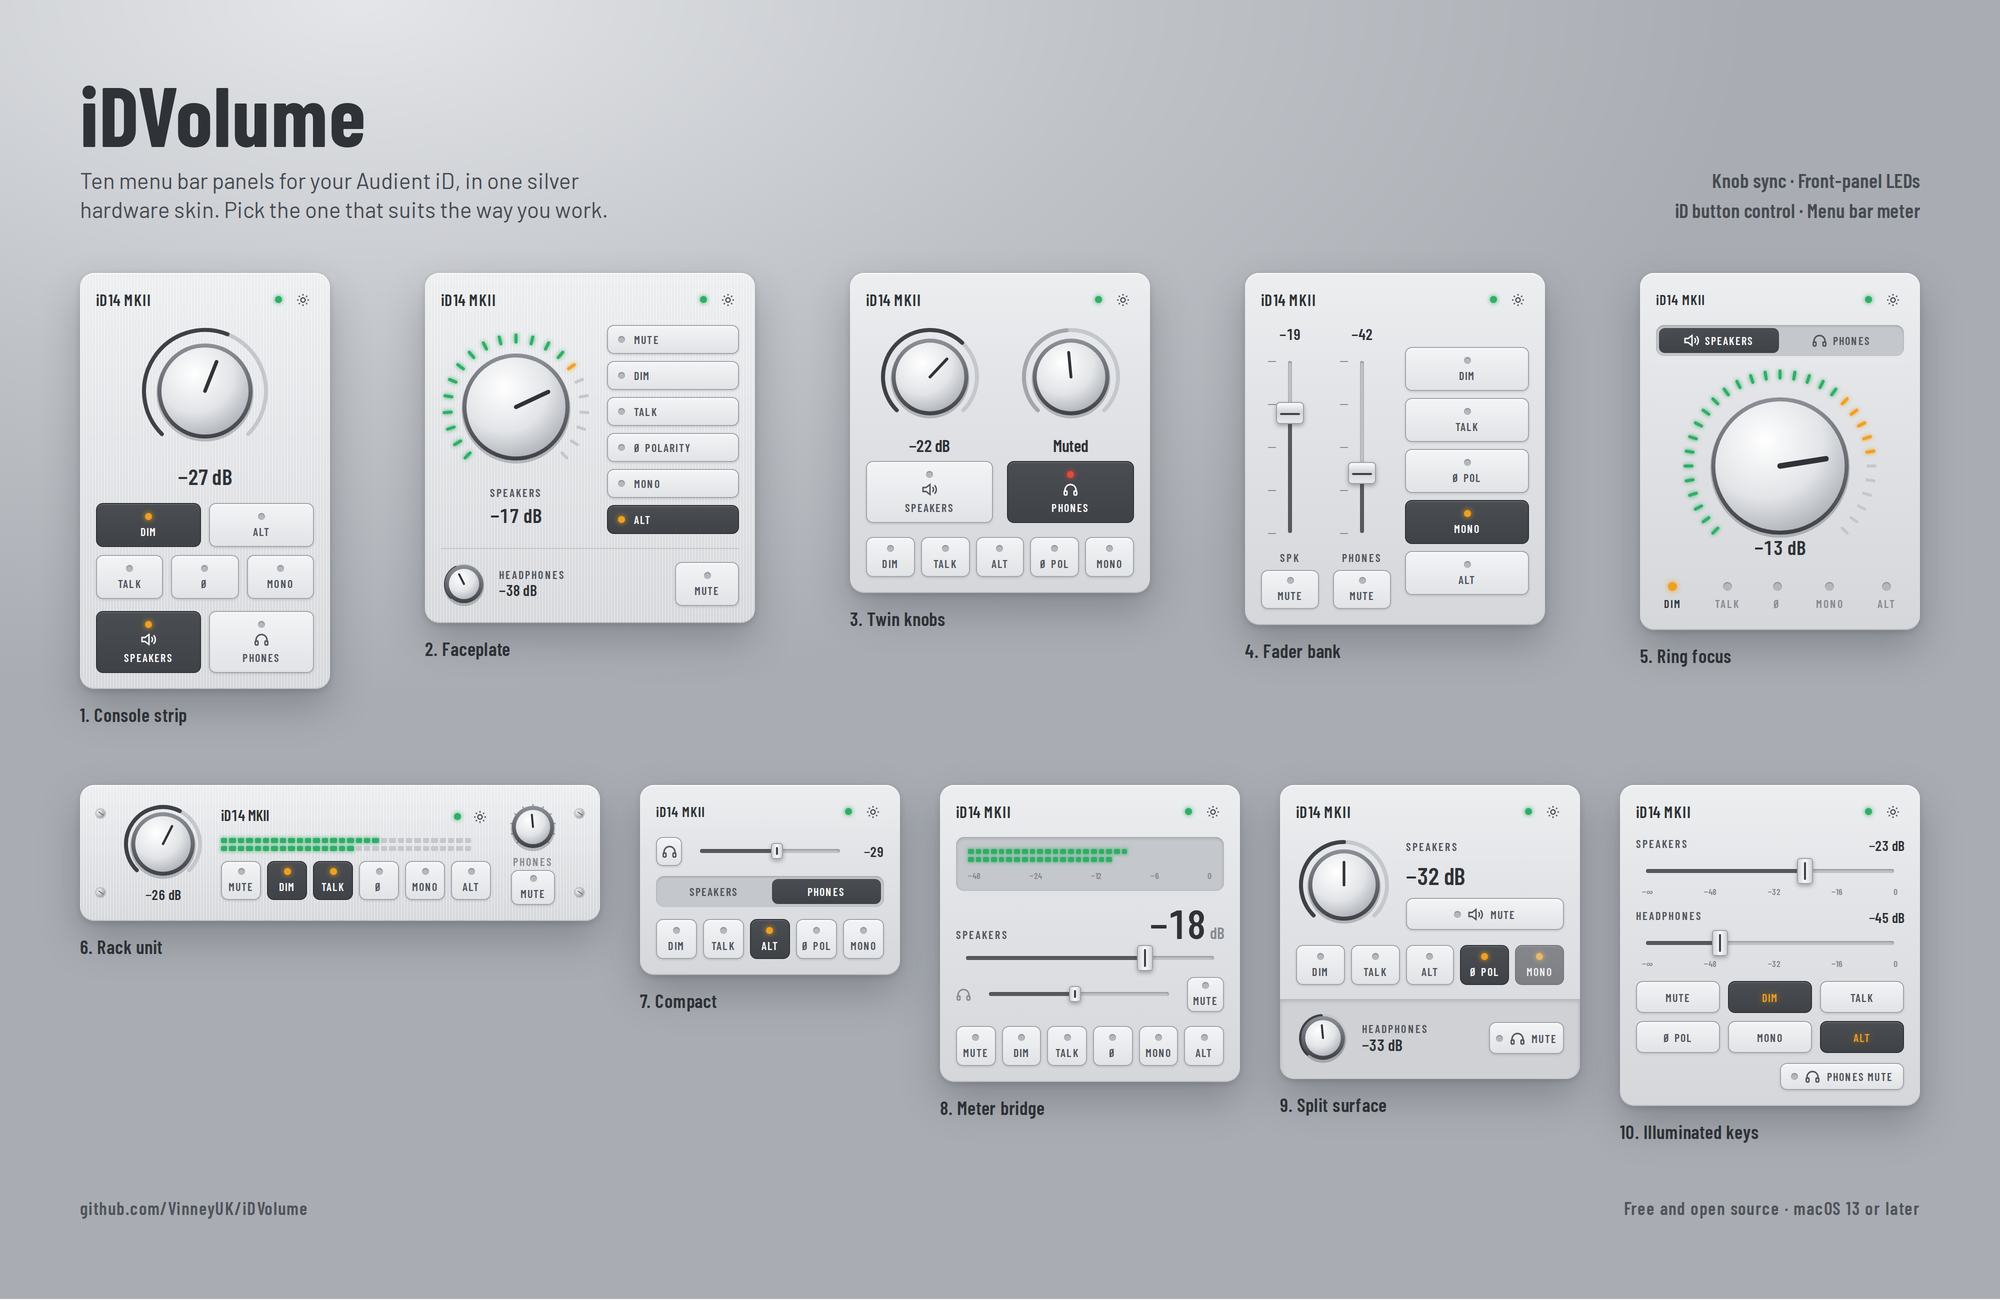
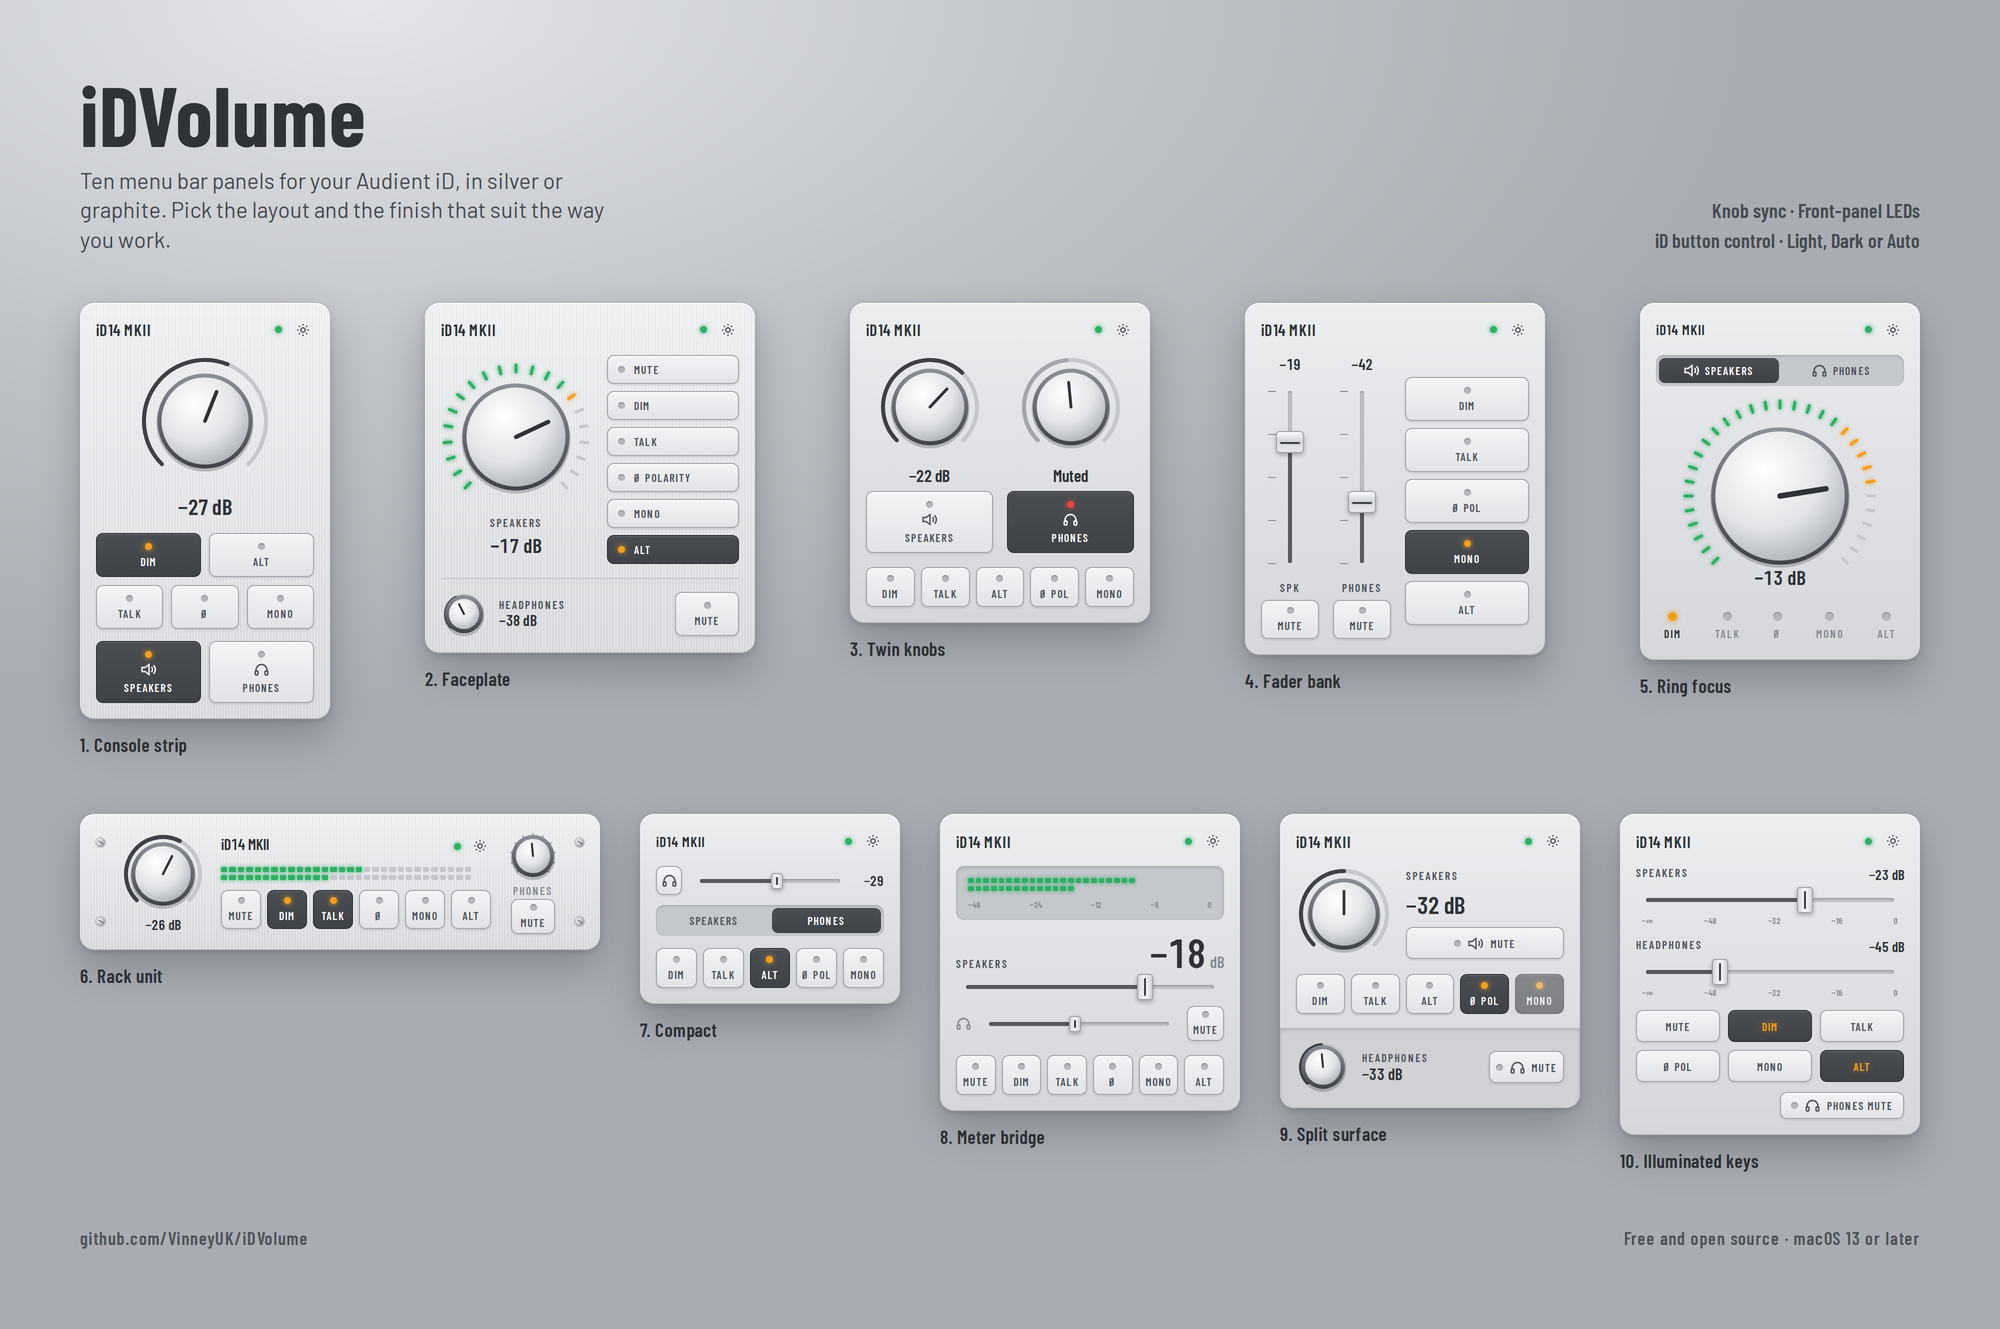
Ten panel layouts, Settings window, Light/Dark/Auto appearance

diff --git a/Sources/HardwareUI.swift b/Sources/HardwareUI.swift
@@ -1,3 +1,4 @@
+import AppKit
 import SwiftUI
 
 // MARK: - Skin (silver hardware)
@@ -8,29 +9,53 @@ extension Color {
     }
 }
 
+/// The hardware skin. Every colour is a light/dark pair; macOS picks one from the panel's
+/// appearance (Light, Dark, or Auto = follow the system — see Settings → Panel).
 enum Skin {
-    static let plateTop = Color(hex: 0xeceef0)
-    static let plate = Color(hex: 0xe3e4e7)
-    static let plateLo = Color(hex: 0xd5d7da)
-    static let groove = Color(hex: 0xc4c7cb)
-    static let well = Color(hex: 0xcfd1d5)
-    static let ink = Color(hex: 0x2f3236)
-    static let silk = Color(hex: 0x4f535a)
-    static let silkDim = Color(hex: 0x868a91)
-    static let edge = Color(hex: 0xa2a6ac)
-    static let keyDark = Color(hex: 0x3f4247)
+    /// A colour that resolves per appearance.
+    static func pair(_ light: UInt32, _ dark: UInt32, lightAlpha: CGFloat = 1, darkAlpha: CGFloat = 1) -> Color {
+        Color(nsColor: NSColor(name: nil) { appearance in
+            let isDark = appearance.bestMatch(from: [.darkAqua, .aqua]) == .darkAqua
+            return NSColor(hex: isDark ? dark : light, alpha: isDark ? darkAlpha : lightAlpha)
+        })
+    }
+
+    //                               light     dark (graphite)
+    static let plateTop  = pair(0xeceef0, 0x2e3237)
+    static let plate     = pair(0xe3e4e7, 0x24272b)
+    static let plateLo   = pair(0xd5d7da, 0x1f2225)
+    static let groove    = pair(0xc4c7cb, 0x121315)
+    static let well      = pair(0xcfd1d5, 0x1a1c1f)
+    static let sidebar   = pair(0xd9dbde, 0x1d1f22)
+    static let ink       = pair(0x2f3236, 0xe6e8eb)
+    static let silk      = pair(0x4f535a, 0xb9bec6)
+    static let silkDim   = pair(0x868a91, 0x6f757e)
+    static let edge      = pair(0xa2a6ac, 0x15171a)
+    static let edgeOn    = pair(0x2f3236, 0x6a6e75)
+    static let ledOff    = pair(0xb4b7bc, 0x3a3e44)
+    static let tick      = pair(0x9ea2a8, 0x6f757e)
+    static let charcoal  = pair(0x3d4045, 0xd8dbe0)     // lit arcs and fader fills
+    static let keyDark   = pair(0x3f4247, 0x5a5e65)     // selected / "on" fill
+    static let brushLine = pair(0xffffff, 0xffffff, lightAlpha: 0.28, darkAlpha: 0.022)
+
     static let amber = Color(hex: 0xf0a020)
     static let red = Color(hex: 0xe5483a)
     static let green = Color(hex: 0x2fae66)
-    static let charcoal = Color(hex: 0x3d4045)
 
     static func silkFont(_ size: CGFloat = 11) -> Font { .system(size: size, weight: .semibold).width(.condensed) }
     static func readoutFont(_ size: CGFloat) -> Font { .system(size: size, weight: .semibold).width(.condensed).monospacedDigit() }
 
     static let plateGradient = LinearGradient(colors: [plateTop, plate, plateLo], startPoint: .top, endPoint: .bottom)
-    static let keyLight = LinearGradient(colors: [Color(hex: 0xf3f4f6), Color(hex: 0xe1e3e6)], startPoint: .top, endPoint: .bottom)
-    static let keyOn = LinearGradient(colors: [Color(hex: 0x4a4d52), keyDark], startPoint: .top, endPoint: .bottom)
+    static let keyLight = LinearGradient(colors: [pair(0xf3f4f6, 0x363a40), pair(0xe1e3e6, 0x2a2d32)], startPoint: .top, endPoint: .bottom)
+    static let keyOn = LinearGradient(colors: [pair(0x4a4d52, 0x686c73), keyDark], startPoint: .top, endPoint: .bottom)
     static let keyMuted = LinearGradient(colors: [Color(hex: 0xb8392d), Color(hex: 0x9c2c22)], startPoint: .top, endPoint: .bottom)
+}
+
+extension NSColor {
+    convenience init(hex: UInt32, alpha: CGFloat = 1) {
+        self.init(srgbRed: CGFloat((hex >> 16) & 0xff) / 255, green: CGFloat((hex >> 8) & 0xff) / 255,
+                  blue: CGFloat(hex & 0xff) / 255, alpha: alpha)
+    }
 }
 
 /// Level (0…1) → dB text on the app's scale.
@@ -76,7 +101,7 @@ struct LEDView: View {
         TimelineView(.periodic(from: .now, by: 0.5)) { ctx in
             let blinkOff = flash && Int(ctx.date.timeIntervalSinceReferenceDate * 2) % 2 == 1
             Circle()
-                .fill(color.map { blinkOff ? Color(hex: 0xb4b7bc) : $0 } ?? Color(hex: 0xb4b7bc))
+                .fill(color.map { blinkOff ? Skin.ledOff : $0 } ?? Skin.ledOff)
                 .frame(width: size, height: size)
                 .shadow(color: (color != nil && !blinkOff) ? color!.opacity(0.8) : .clear, radius: 3)
         }
@@ -93,7 +118,7 @@ struct PlateBackground: View {
                 Canvas { ctx, size in
                     var x: CGFloat = 0
                     while x < size.width {
-                        ctx.fill(Path(CGRect(x: x, y: 0, width: 1, height: size.height)), with: .color(.white.opacity(0.28)))
+                        ctx.fill(Path(CGRect(x: x, y: 0, width: 1, height: size.height)), with: .color(Skin.brushLine))
                         x += 3
                     }
                 }
@@ -133,8 +158,8 @@ struct HWKey: View {
                 .foregroundStyle(foreground)
                 .background(RoundedRectangle(cornerRadius: 7, style: .continuous).fill(fill))
                 .overlay(RoundedRectangle(cornerRadius: 7, style: .continuous)
-                    .strokeBorder(isOn ? Color(hex: 0x2f3236) : Skin.edge, lineWidth: 1))
-                .shadow(color: .black.opacity(isOn ? 0 : 0.14), radius: 1, y: 1)
+                    .strokeBorder(isOn ? Skin.edgeOn : Skin.edge, lineWidth: 1))
+                .shadow(color: .black.opacity(isOn ? 0 : 0.18), radius: 1, y: 1)
                 .contentShape(Rectangle())
         }
         .buttonStyle(PressStyle())
@@ -285,7 +310,7 @@ struct HWKnob: View {
             for i in 0...10 {
                 let a = -135 + 27 * Double(i)
                 var p = Path(); p.move(to: point(a, rOuter - 5, c)); p.addLine(to: point(a, rOuter, c))
-                ctx.stroke(p, with: .color(Color(hex: 0x9ea2a8)), lineWidth: 1.5)
+                ctx.stroke(p, with: .color(Skin.tick), lineWidth: 1.5)
             }
         }
 

diff --git a/Sources/AppState.swift b/Sources/AppState.swift
@@ -53,6 +53,23 @@ enum PanelLayout: String, CaseIterable, Identifiable {
     var usesMeter: Bool { self == .rackUnit || self == .meterBridge }
 }
 
+/// Light, Dark, or follow the system.
+enum AppAppearance: String, CaseIterable, Identifiable {
+    case light, dark, auto
+    var id: String { rawValue }
+    var title: String {
+        switch self { case .light: return "Light"; case .dark: return "Dark"; case .auto: return "Auto" }
+    }
+    /// nil = follow the system.
+    var nsAppearance: NSAppearance? {
+        switch self {
+        case .light: return NSAppearance(named: .aqua)
+        case .dark: return NSAppearance(named: .darkAqua)
+        case .auto: return nil
+        }
+    }
+}
+
 /// Which output a single-knob layout is controlling (the app's own choice — the iD doesn't report its knob mode).
 enum KnobTarget: String { case speakers, headphones }
 
@@ -69,7 +86,7 @@ final class AppState: ObservableObject {
         static let keys = "volumeKeys", onlyAudient = "keysOnlyWhenAudient", osd = "osdEnabled"
         static let style = "menuBarStyle", showLevel = "showLevelInMenuBar", restore = "restoreOnPowerUp"
         static let barMeter = "menuBarMeter", idFollows = "idLedFollows"
-        static let layout = "panelLayout", knobTarget = "knobTarget"
+        static let layout = "panelLayout", knobTarget = "knobTarget", appearance = "appearance"
     }
     private let defaults = UserDefaults.standard
     private let writer = USBWriter()
@@ -84,6 +101,9 @@ final class AppState: ObservableObject {
 
     @Published var panelLayout: PanelLayout {
         didSet { defaults.set(panelLayout.rawValue, forKey: K.layout); updateMeterPolling() }
+    }
+    @Published var appearance: AppAppearance {
+        didSet { defaults.set(appearance.rawValue, forKey: K.appearance) }
     }
     @Published var knobTarget: KnobTarget {
         didSet { defaults.set(knobTarget.rawValue, forKey: K.knobTarget) }
@@ -238,6 +258,7 @@ final class AppState: ObservableObject {
         idLedFollows = defaults.object(forKey: K.idFollows) as? Bool ?? true
         panelLayout = PanelLayout(rawValue: defaults.string(forKey: K.layout) ?? "") ?? .consoleStrip
         knobTarget = KnobTarget(rawValue: defaults.string(forKey: K.knobTarget) ?? "") ?? .speakers
+        appearance = AppAppearance(rawValue: defaults.string(forKey: K.appearance) ?? "") ?? .light
         launchAtLogin = SMAppService.mainApp.status == .enabled
 
         writer.onResult = { [weak self] status, pid in self?.handle(status: status, pid: pid) }

diff --git a/Sources/SettingsView.swift b/Sources/SettingsView.swift
@@ -34,7 +34,6 @@ struct SettingsView: View {
         }
         .frame(width: 600, height: 440)
         .background(Skin.plate)
-        .environment(\.colorScheme, .light)
         .tint(Skin.keyDark)
     }
 
@@ -58,7 +57,7 @@ struct SettingsView: View {
         }
         .padding(8)
         .frame(width: 160)
-        .background(Color(hex: 0xd9dbde))
+        .background(Skin.sidebar)
     }
 
     // MARK: Content
@@ -74,6 +73,15 @@ struct SettingsView: View {
 
     private var panelTab: some View {
         VStack(alignment: .leading, spacing: 10) {
+            HStack {
+                labelBlock("Appearance", hint: "Auto follows your Mac's Light and Dark setting")
+                Spacer()
+                Picker("", selection: $state.appearance) {
+                    ForEach(AppAppearance.allCases) { a in Text(a.title).tag(a) }
+                }
+                .labelsHidden().pickerStyle(.segmented).fixedSize()
+            }
+            Divider().padding(.vertical, 4)
             Text("Choose the layout of the menu bar panel.").font(.system(size: 13)).foregroundStyle(Skin.silk)
             LazyVGrid(columns: [GridItem(.flexible(), spacing: 10), GridItem(.flexible(), spacing: 10)], spacing: 10) {
                 ForEach(PanelLayout.allCases) { l in
@@ -87,7 +95,7 @@ struct SettingsView: View {
                         .padding(10)
                         .foregroundStyle(state.panelLayout == l ? Color.white : Skin.ink)
                         .background(RoundedRectangle(cornerRadius: 8).fill(state.panelLayout == l ? AnyShapeStyle(Skin.keyOn) : AnyShapeStyle(Skin.keyLight)))
-                        .overlay(RoundedRectangle(cornerRadius: 8).strokeBorder(state.panelLayout == l ? Color(hex: 0x2f3236) : Skin.edge))
+                        .overlay(RoundedRectangle(cornerRadius: 8).strokeBorder(state.panelLayout == l ? Skin.edgeOn : Skin.edge))
                         .contentShape(Rectangle())
                     }
                     .buttonStyle(.plain)

diff --git a/Sources/AppDelegate.swift b/Sources/AppDelegate.swift
@@ -41,13 +41,16 @@ final class AppDelegate: NSObject, NSApplicationDelegate, NSPopoverDelegate {
         popover.contentViewController = host
         popover.behavior = .transient
         popover.animates = true
-        popover.appearance = NSAppearance(named: .aqua)   // the silver skin is a light design
+        popover.appearance = state.appearance.nsAppearance
         popover.delegate = self
         state.openSettings = { [weak self] in self?.openSettings() }
 
         updateIcon()
         iconObserver = state.objectWillChange.sink { [weak self] _ in
-            DispatchQueue.main.async { self?.updateIcon() }
+            DispatchQueue.main.async {
+                self?.updateIcon()
+                self?.applyAppearance()
+            }
         }
         state.onBarMeter = { [weak self] left, right in
             self?.barLevels = (left, right)
@@ -91,7 +94,7 @@ final class AppDelegate: NSObject, NSApplicationDelegate, NSPopoverDelegate {
             window.title = "iDVolume Settings"
             window.styleMask = [.titled, .closable]
             window.isReleasedWhenClosed = false
-            window.appearance = NSAppearance(named: .aqua)
+            window.appearance = state.appearance.nsAppearance
             window.center()
             settingsWindow = window
         }
@@ -115,6 +118,13 @@ final class AppDelegate: NSObject, NSApplicationDelegate, NSPopoverDelegate {
     }
 
     @objc private func reconnectAction() { state.reconnect() }
+
+    /// Light / Dark / Auto for the panel and the Settings window (nil = follow the system).
+    private func applyAppearance() {
+        let wanted = state.appearance.nsAppearance
+        if popover.appearance?.name != wanted?.name { popover.appearance = wanted }
+        if let w = settingsWindow, w.appearance?.name != wanted?.name { w.appearance = wanted }
+    }
 
     private func updateIcon() {
         guard let button = statusItem.button else { return }

diff --git a/Sources/Panel.swift b/Sources/Panel.swift
@@ -8,7 +8,6 @@ struct PanelView: View {
         layout
             .padding(16)
             .background(PlateBackground(brushed: brushed))
-            .environment(\.colorScheme, .light)
             .overlay(alignment: .top) {
                 if !state.isConnected { disconnectedBanner }
             }
@@ -40,7 +39,8 @@ struct PanelView: View {
             Button("Reconnect") { state.reconnect() }.controlSize(.small)
         }
         .padding(.horizontal, 12).padding(.vertical, 7)
-        .background(Capsule().fill(Color.white.opacity(0.95)))
+        .background(Capsule().fill(Skin.plateTop))
+        .foregroundStyle(Skin.ink)
         .shadow(color: .black.opacity(0.2), radius: 6, y: 2)
         .padding(.top, 44)
     }

diff --git a/README.md b/README.md
@@ -10,12 +10,15 @@
 </p>
 
 <p align="center">
-  <img src="docs/layouts.png" alt="The ten iDVolume panel layouts">
+  <picture>
+    <source media="(prefers-color-scheme: dark)" srcset="docs/layouts-dark.png">
+    <img src="docs/layouts.png" alt="The ten iDVolume panel layouts">
+  </picture>
 </p>
 
 ## Features
 
-- **Ten panel layouts** in a silver hardware skin — knobs, faders, LED keys — chosen in Settings
+- **Ten panel layouts** in a hardware skin — knobs, faders, LED keys — in **Light, Dark or Auto**
 - **Settings window** (gear, ⌘, or right-click the menu bar icon)
 - Speaker level and a headphone trim, with mute on each
 - **Keyboard volume keys** (F10/F11/F12, Touch Bar) control the iD — only while it's the
